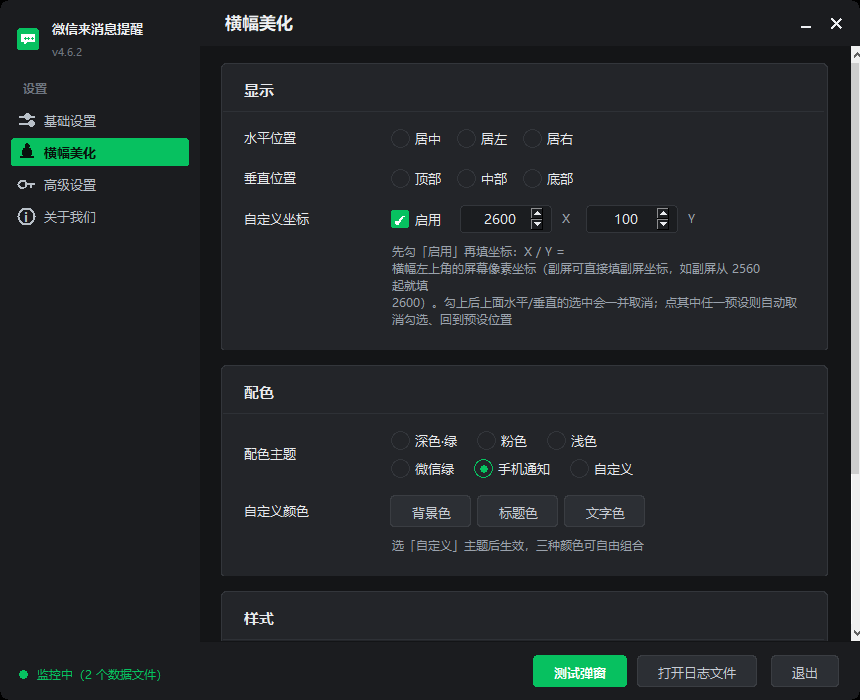
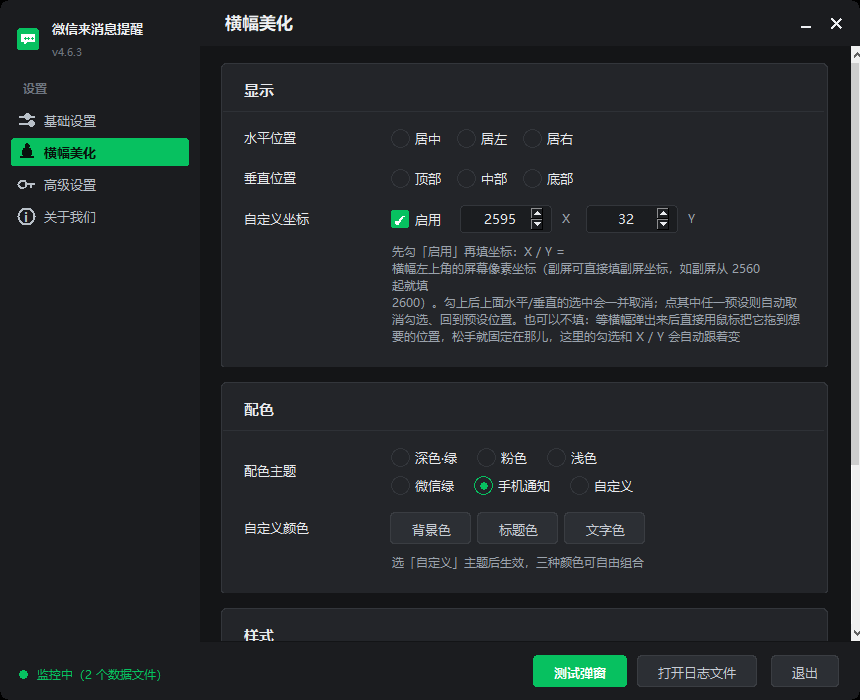
feat: 横幅弹出来用鼠标拖走，松手即固定位置；README/说明书同步到 v4.6.3

diff --git a/wechat_notify.py b/wechat_notify.py
@@ -67,7 +67,7 @@ except Exception:
     _HAS_WECOM = False
 
 APP_NAME = "微信提醒"
-VERSION = "4.6.2"
+VERSION = "4.6.3"
 # 对外唯一联系入口（关于我们页展示，点击可复制）
 CONTACT_EMAIL = "smallfishanddream@outlook.com"
 APP_DIR = os.path.join(os.environ.get("APPDATA", os.path.expanduser("~")), "微信提醒")
@@ -3263,8 +3263,41 @@ class Banner:
     def _release(self, e):
         if self._press_pos and not self._moved:
             self._open_wechat()
+        elif self._moved:
+            self._lock_pos()
         self._press_pos = None
         self._drag_data = None
+        # 同一个松开事件会被"子控件"和"窗口"两条绑定各收一次，清掉 _moved，
+        # 免得重复保存/重复打日志
+        self._moved = False
+
+    def _lock_pos(self):
+        """v4.6.3: 拖到哪就固定在哪——松手时把横幅当前的左上角写成自定义坐标。
+
+        不用再进设置页填数字：拖完就存进 config，下一屏横幅还落在同一处；
+        设置窗口开着的话，那边「启用」会自动勾上、X / Y 跟着回填。
+        """
+        try:
+            x, y = int(self.win.winfo_x()), int(self.win.winfo_y())
+        except Exception as e:
+            log(f"[横幅] 取拖动后的位置失败: {e}")
+            return
+        if x < 0 or y < 0:
+            # Tk 的 geometry 只认"从主屏左上角算起"的正坐标；拖到主屏左/上方的
+            # 副屏时 winfo_x/y 是负数，存下去下次摆不回来，这里只提示不落盘。
+            log(f"[横幅] 拖到了负坐标 ({x}, {y})，这版只支持主屏左上角起算的坐标，未保存")
+            return
+        config["banner_pos"] = "custom"
+        config["banner_pos_x"] = x
+        config["banner_pos_y"] = y
+        save_config()
+        log(f"[横幅] 位置已固定为 ({x}, {y})")
+        try:
+            w = getattr(self, "settings", None)
+            if w is not None:
+                w.sync_banner_pos(x, y)
+        except Exception as e:
+            log(f"[横幅] 同步设置页坐标失败: {e}")
 
     def _open_wechat(self):
         msg = getattr(self, "_current_msg", None) or {}
@@ -4451,7 +4484,9 @@ class SettingsWindow:
         self._hint(card, "先勾「启用」再填坐标：X / Y = 横幅左上角的屏幕像素坐标"
                          "（副屏可直接填副屏坐标，如副屏从 2560 起就填 2600）。"
                          "勾上后上面水平/垂直的选中会一并取消；点其中任一预设则自动"
-                         "取消勾选、回到预设位置")
+                         "取消勾选、回到预设位置。"
+                         "也可以不填：等横幅弹出来后直接用鼠标把它拖到想要的位置，"
+                         "松手就固定在那儿，这里的勾选和 X / Y 会自动跟着变")
 
         # 配色
         card = self._section(col_r, "配色")
@@ -5221,6 +5256,23 @@ class SettingsWindow:
                 w._sync()
             except Exception:
                 pass
+
+    def sync_banner_pos(self, x, y):
+        """v4.6.3: 横幅被鼠标拖走后，把新位置回填到本页——勾上「启用」、X / Y 改成
+        刚拖到的地方、水平/垂直预设取消选中。程序改 var 不会触发控件自身刷新，
+        所以单选圈要手动重画。"""
+        try:
+            if getattr(self, "var_bcustom", None) is None:
+                return
+            self.var_bcustom.set(True)
+            self._sync_custom_chk()
+            self.var_px.set(str(int(x)))
+            self.var_py.set(str(int(y)))
+            self.var_pos.set("")
+            self.var_bvertical.set("")
+            self._refresh_pos_radios()
+        except Exception as e:
+            log(f"[设置] 同步横幅坐标失败: {e}")
 
     def _sync_custom_chk(self):
         try:
@@ -6430,12 +6482,14 @@ def main():
             if w is None:
                 w = SettingsWindow(root, banner, quit_app)
                 win_holder["win"] = w
+            banner.settings = w  # v4.6.3: 横幅拖走后回填坐标用
             w.show()
         except Exception as e:
             log(f"[设置] open_settings 异常，重建窗口: {e}")
             try:
                 w = SettingsWindow(root, banner, quit_app)
                 win_holder["win"] = w
+                banner.settings = w
                 w.show()
             except Exception as e2:
                 log(f"[设置] open_settings 重建失败: {e2}")

diff --git a/README.md b/README.md
@@ -1,9 +1,9 @@
-# 微信提醒 · 横幅自定义坐标 +「启用」勾选（v4.6.2）
+# 微信提醒 · 横幅自定义坐标 +「启用」勾选 + 拖动定位置（v4.6.3）
 
-原版「微信提醒 v4.6.1」上改了两件事：**① 横幅位置不只九宫格，还能直接填左上角的屏幕坐标 (X, Y)**，用来精确摆放，或者把横幅放到副屏 / 超宽屏的指定位置；**② 坐标行前面加了「启用」勾选框**，勾上就只认坐标、预设档位一律取消选中。
+原版「微信提醒 v4.6.1」上改了三件事：**① 横幅位置不只九宫格，还能直接填左上角的屏幕坐标 (X, Y)**，用来精确摆放，或者把横幅放到副屏 / 超宽屏的指定位置；**② 坐标行前面加了「启用」勾选框**，勾上就只认坐标、预设档位一律取消选中；**③ 横幅弹出来可以直接用鼠标拖走**，松手就固定在那儿，不用再进设置填数字。
 
 > 上游项目：[yuz_cn/wechat-notify](https://gitee.com/yuz_cn/wechat-notify)（Gitee）
-> 本仓库基于上游 v4.6.1 源码，版本号 **v4.6.2**：上游 v4.6.1 + 下面 12 处改动，其余代码与原版一致。
+> 本仓库基于上游 v4.6.1 源码，版本号 **v4.6.3**：上游 v4.6.1 + 下面 15 处改动，其余代码与原版一致。
 
 ![自定义坐标界面](docs/banner-position.png)
 
@@ -36,6 +36,12 @@
 - 取消勾选 = 回到上一次选过的九宫格档位。
 - 反过来，直接点任意一个预设档位（居中/居左/居右、顶部/中部/底部）会自动取消「启用」勾选，预设立即生效。
 - 直接改 X / Y 数值也会自动勾上「启用」。
+
+**懒得填数字就拖一下**：
+
+- 等横幅弹出来，按住它往想放的地方拖，松手就把当前位置固定下来（写进配置，下一屏横幅还落在同一处）。
+- 拖完不用回设置页：「启用」会自动勾上，X / Y 也同步成刚拖到的地方。
+- 坐标是"从主屏左上角算起的正数"：副屏在主屏右边可以拖过去；拖到主屏左边 / 上方的屏算负坐标，这版不保存（只提示，下一次还回原处）。
 
 - 单位是**屏幕物理像素**，原点是主屏左上角 `(0, 0)`，向右向下为正，和系统「显示设置」里的分辨率是同一套数值。
 - 多屏时坐标是接着主屏累加的。比如主屏 2560 宽，副屏就从 `x = 2560` 开始；填 `X=2600 Y=150` 就是副屏左上往右 40、往下 150。
@@ -106,7 +112,7 @@ python tools/watch_banner.py <进程PID> ...
 
 ## 4. 具体改了哪些地方
 
-v4.6.2 一共 12 处，都在 `wechat_notify.py`：
+v4.6.3 一共 15 处，都在 `wechat_notify.py`：
 
 ### 4.1 自定义坐标（8 处）
 
@@ -129,6 +135,14 @@ v4.6.2 一共 12 处，都在 `wechat_notify.py`：
 | 10 | 新增 `_on_bcustom()` / `_refresh_pos_radios()` / `_sync_custom_chk()` | 勾选时清空预设并手动重画单选圈（`RoundedRadio` 只在被点击时才刷新组，程序改 var 必须自己刷）；取消勾选恢复上次预设 |
 | 11 | `_on_hpos()` / `_on_vertical()` / `_on_pos_xy()` | 点预设自动取消「启用」；改 X/Y 自动勾上「启用」 |
 | 12 | `_apply_banner()` | 勾了就写 `banner_pos="custom"`，否则写预设值；`banner_vertical` 为空时不覆盖配置 |
+
+### 4.3 拖动横幅就固定位置（3 处）
+
+| # | 位置 | 改动 |
+|---|------|------|
+| 13 | `Banner._release()` | 拖过（`_moved`）就走 `_lock_pos()`；结束后清 `_moved`，避免"子控件 + 窗口"两条绑定各存一次、各打一条日志 |
+| 14 | 新增 `Banner._lock_pos()` | 取 `winfo_x/y` 写成 `banner_pos="custom"` + `banner_pos_x/y` 并 `save_config()`；**负坐标不落盘**（Tk 的 geometry 只认主屏左上角起算的正数）；设置窗口开着就回调 `sync_banner_pos()` |
+| 15 | 新增 `SettingsWindow.sync_banner_pos()`；`open_settings()` 里记 `banner.settings = w` | 拖完自动勾「启用」、回填 X / Y、取消水平/垂直预设（程序改 var 不会触发控件刷新，单选圈要手动重画） |
 
 另外加了一个调试开关（不影响正常使用）：环境变量 `WXNOTIFY_START_TAB=beauty|advanced|about|basic`
 可以让设置窗口启动后直接停在指定页，方便截图核对。
